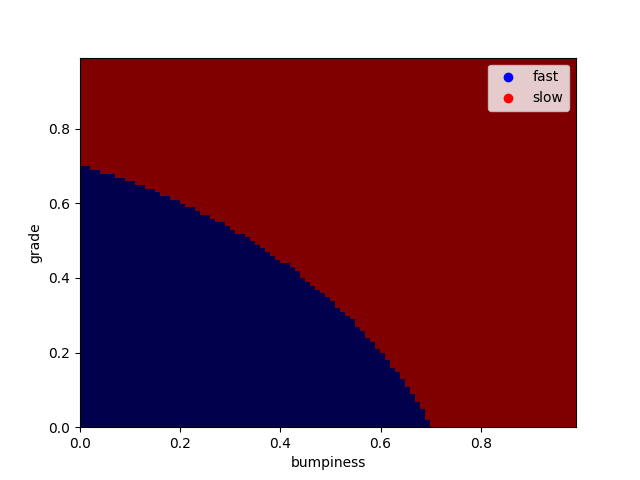
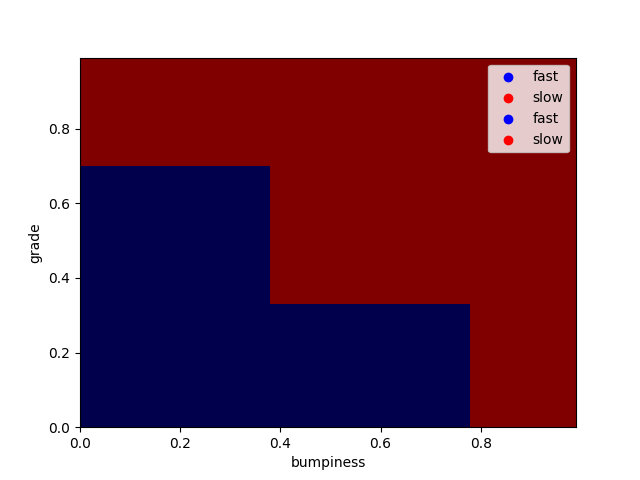
svc_practise_complete

Changed region(s): [[0.125, 0.3438, 0.75, 0.9062], [0.75, 0.2188, 0.9062, 0.3438]]

diff --git a/p5_naive_bayes_GaussianNB/studentMain.py b/p5_naive_bayes_GaussianNB/studentMain.py
@@ -31,3 +31,11 @@ clf = classify(features_train, labels_train, features_test)
 ### draw the decision boundary with the text points overlaid
 prettyPicture(clf, labels_test, features_test)
 #output_image("test.png", "png", open("test.png", "rb").read())
+
+from classifyDT import classifyDt
+from accuracy import submitAccuracy
+clf2=classifyDt(features_train, labels_train, features_test)
+pred = clf2.predict(features_test)
+acc=submitAccuracy(pred,labels_test)
+print(acc)
+prettyPicture(clf2, labels_test, features_test)

diff --git a/p5_svm_decision_boundary/svm_firstCode.py b/p5_svm_decision_boundary/svm_firstCode.py
@@ -30,10 +30,11 @@ pred = clf.predict(features_test)
 
 
 
-from sklearn.metrics import accuracy_score
-acc = accuracy_score(pred, labels_test)
 
-def submitAccuracy():
+
+def submitAccuracy(pred, labels_test):
+    from sklearn.metrics import accuracy_score
+    acc = accuracy_score(pred, labels_test)
     return acc
 
 prettyPicture(clf, labels_test, features_test)

diff --git a/p5_naive_bayes_GaussianNB/classifyDT.py b/p5_naive_bayes_GaussianNB/classifyDT.py
@@ -1,0 +1,6 @@
+def classifyDt(features_train, labels_train, features_test):
+    ### your code goes here--should return a trained decision tree classifer
+    from sklearn.tree import  DecisionTreeClassifier
+    clf=DecisionTreeClassifier(min_samples_split=100)
+    clf.fit(features_train, labels_train)
+    return clf

diff --git a/p5_naive_bayes_GaussianNB/accuracy.py b/p5_naive_bayes_GaussianNB/accuracy.py
@@ -1,0 +1,4 @@
+def submitAccuracy(pred, labels_test):
+    from sklearn.metrics import accuracy_score
+    acc = accuracy_score(pred, labels_test)
+    return acc
